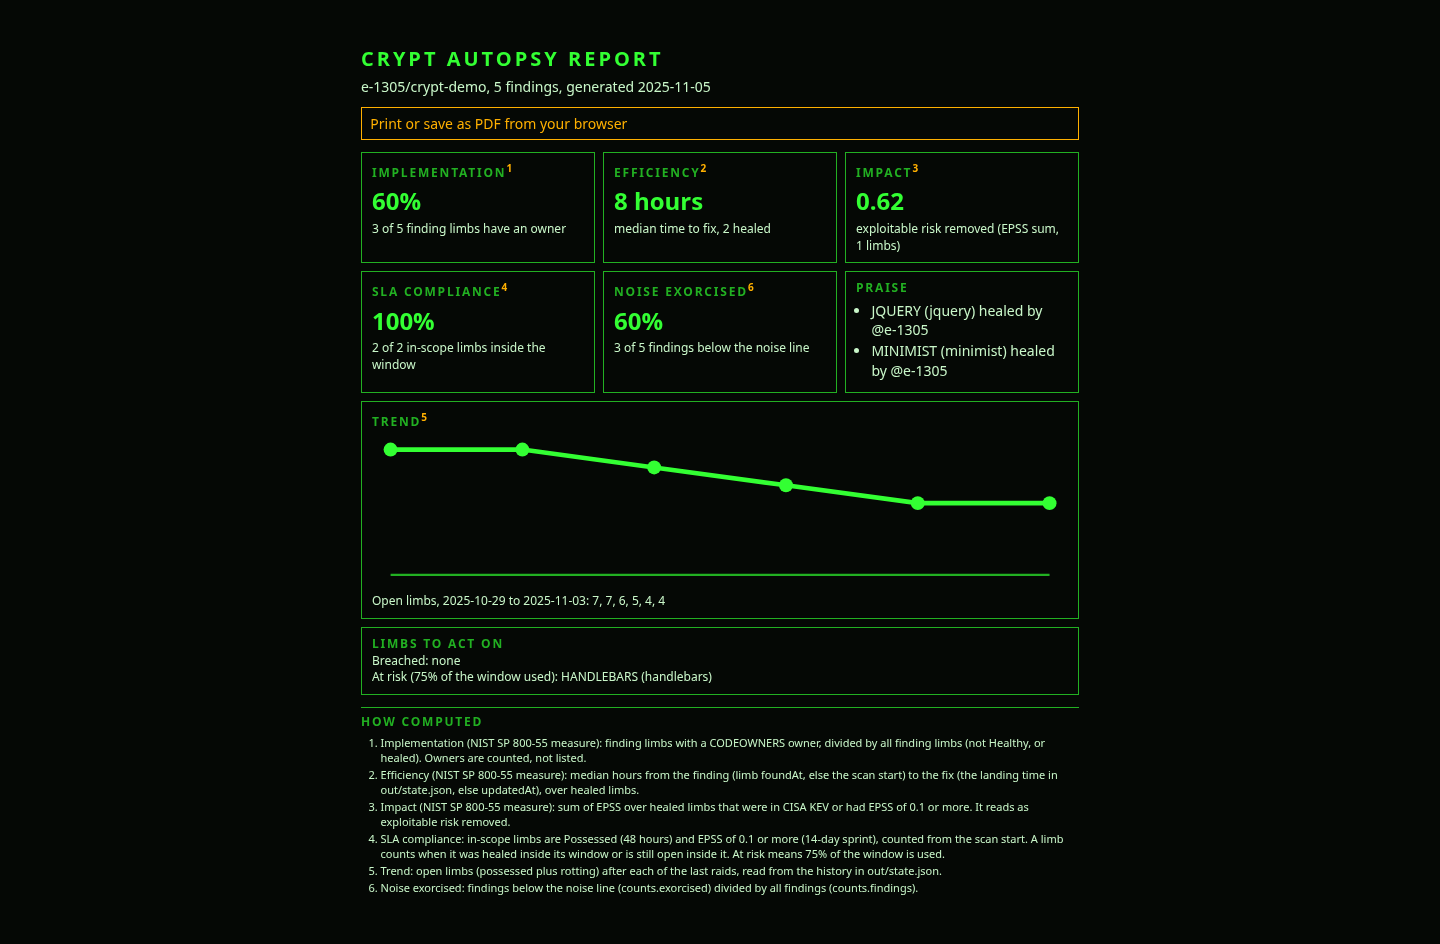
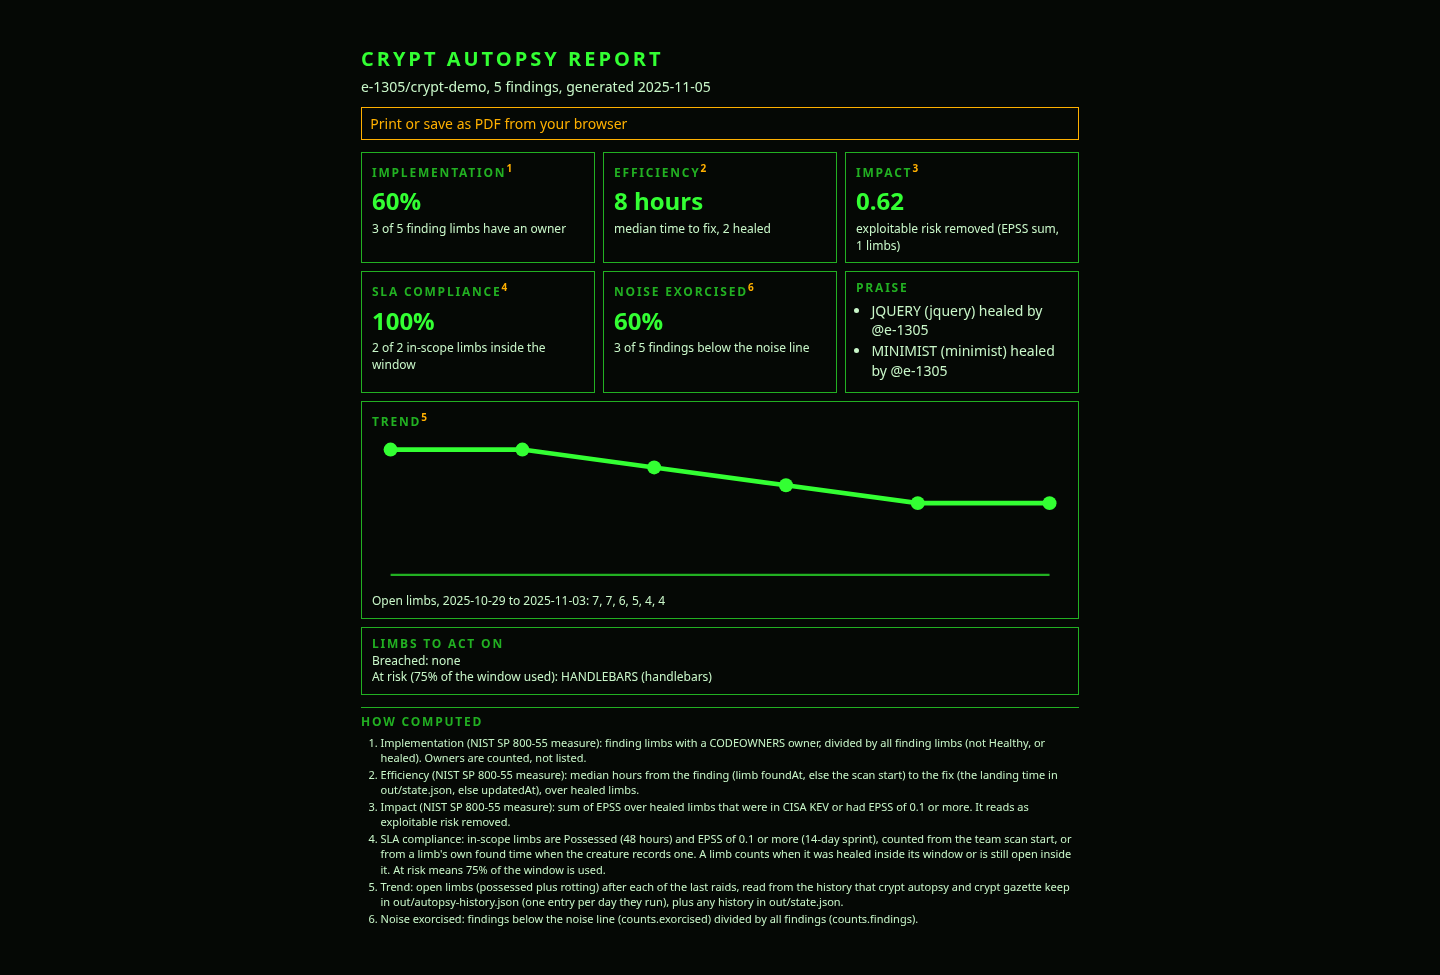
fix: keep autopsy history, refuse webhook redirects, add CLI secret test (D5 review)

Changed region(s): [[0.25, 0.5837, 0.75, 0.9523], [0.25, 0.0307, 0.75, 0.553]]

diff --git a/tests/gazette.test.ts b/tests/gazette.test.ts
@@ -7,6 +7,8 @@ import { parseCli } from "../src/cli/parse.js";
 import { buildDigest, DAY_MS } from "../src/gazette/digest.js";
 import { buildSlackPayload, slackCode } from "../src/gazette/slack.js";
 import { buildTeamsPayload } from "../src/gazette/teams.js";
+import { spawnSync } from "node:child_process";
+import { appendSnapshot, joinHistory, snapshotOf } from "../src/report/history.js";
 import { sendGazette, type FetchLike } from "../src/gazette/send.js";
 import { SAMPLE_INPUT } from "../src/report/sample.js";
 import { DEFAULT_WAR_ROOM, gazetteCommand } from "../scripts/cli/gazette.js";
@@ -171,5 +173,51 @@ describe("sendGazette", () => {
     const err = await sendGazette({ payload: {}, url: SECRET, fetchImpl: f, timeoutMs: 5 }).catch((e: Error) => e);
     expect((err as Error).message).toMatch(/in time/);
     expect((err as Error).message).not.toContain("SENTINEL");
+  });
+});
+
+it("sendGazette refuses redirects", async () => {
+  let seen: unknown;
+  await sendGazette({ payload: {}, url: SECRET, fetchImpl: async (_u, i) => ((seen = i.redirect), { ok: true, status: 200 }) });
+  expect(seen).toBe("error");
+});
+
+describe("raid history kept by the report commands", () => {
+  const creature = { counts: { spawned: 2 }, limbs: [{ id: "A", name: "a", state: "Possessed" }, { id: "B", name: "b", state: "Healthy", healed: true }, { id: "C", name: "c", state: "Rotting" }] };
+  it("snapshots the creature", () => {
+    expect(snapshotOf(creature, Date.UTC(2025, 0, 2))).toMatchObject({ possessed: 1, rotting: 1, healthy: 1, healed: 1, spawned: 2, possessedIds: ["A"] });
+    expect(snapshotOf(5, 1)).toBeNull();
+  });
+  it("keeps one entry per day and drops junk", () => {
+    const a = snapshotOf(creature, Date.UTC(2025, 0, 2, 1))!;
+    const b = snapshotOf(creature, Date.UTC(2025, 0, 2, 20))!;
+    const c = snapshotOf(creature, Date.UTC(2025, 0, 3))!;
+    expect(appendSnapshot(appendSnapshot(["junk", { at: "x" }], a), b)).toEqual([b]);
+    expect(appendSnapshot([b], c)).toEqual([b, c]);
+    expect(joinHistory([1], [2])).toEqual([1, 2]);
+  });
+  it("gazette builds the history across runs and names newly possessed limbs", async () => {
+    const d = workdir(creature);
+    await run([], d);
+    const next = { limbs: [...creature.limbs, { id: "D", name: "d", state: "Possessed" }] };
+    writeFileSync(join(d, "out", "creature.json"), JSON.stringify(next));
+    let stdout = "";
+    const env = {};
+    await gazetteCommand(parseCli(["gazette"], env), { cwd: d, env, now: () => SAMPLE_INPUT.now + 2 * DAY_MS, out: (s) => void (stdout += s) });
+    expect(stdout).toContain("d");
+    const h = JSON.parse(readFileSync(join(d, "out", "autopsy-history.json"), "utf8")) as unknown[];
+    expect(h).toHaveLength(2);
+  });
+});
+
+describe("crypt gazette through main.ts", () => {
+  it("a failed send leaks the URL in neither stdout nor stderr", () => {
+    const d = workdir();
+    const url = "https://127.0.0.1:9/SENTINEL-SECRET-123";
+    const r = spawnSync(process.execPath, [join(process.cwd(), "bin", "crypt.mjs"), "gazette", "--webhook-env", "SLACK_WEBHOOK_URL", "--send"], { cwd: d, env: { ...process.env, SLACK_WEBHOOK_URL: url }, encoding: "utf8", timeout: 60_000 });
+    expect(r.status).not.toBe(0);
+    expect(r.stderr).toMatch(/gazette not sent/);
+    expect(r.stdout + r.stderr).not.toContain("SENTINEL");
+    expect(readFileSync(join(d, "crypt-audit.log"), "utf8")).not.toContain("SENTINEL");
   });
 });

diff --git a/src/report/history.ts b/src/report/history.ts
@@ -1,0 +1,38 @@
+// Raid history kept by the report commands. serializeState drops unknown keys, so state.json cannot hold it.
+// crypt autopsy and crypt gazette append one snapshot per UTC day to out/autopsy-history.json.
+const DAY_MS = 86_400_000;
+export const HISTORY_FILE = "autopsy-history.json";
+export const MAX_KEPT = 200;
+
+const isRec = (v: unknown): v is Record<string, unknown> => typeof v === "object" && v !== null && !Array.isArray(v);
+const cnt = (v: unknown): number => (typeof v === "number" && Number.isFinite(v) && v >= 0 ? Math.floor(v) : 0);
+
+/** One history entry for the creature as it is now. Returns null when there is no usable limb list. */
+export function snapshotOf(creature: unknown, now: number): Record<string, unknown> | null {
+  if (!isRec(creature) || !Array.isArray(creature.limbs) || !Number.isFinite(now)) return null;
+  const limbs = creature.limbs.filter(isRec);
+  const possessedIds = limbs.filter((l) => l.state === "Possessed" && typeof l.id === "string").map((l) => (l.id as string).slice(0, 32));
+  const c = isRec(creature.counts) ? creature.counts : {};
+  return {
+    at: new Date(now).toISOString(),
+    possessed: possessedIds.length,
+    rotting: limbs.filter((l) => l.state === "Rotting").length,
+    healthy: limbs.filter((l) => l.state === "Healthy").length,
+    spawned: cnt(c.spawned),
+    healed: limbs.filter((l) => l.healed === true).length,
+    possessedIds,
+  };
+}
+
+/** Appends the snapshot. An entry from the same UTC day is replaced. Junk entries are dropped. */
+export function appendSnapshot(existing: unknown, snap: Record<string, unknown>): unknown[] {
+  const day = (e: unknown): number => (isRec(e) ? Math.floor(Date.parse(String(e.at)) / DAY_MS) : NaN);
+  const today = day(snap);
+  const kept = (Array.isArray(existing) ? existing : []).filter((e) => Number.isFinite(day(e)) && day(e) !== today);
+  return [...kept, snap].slice(-MAX_KEPT);
+}
+
+/** state.history first, then the file history, so an entry the file holds for the same time wins by order. */
+export function joinHistory(fromState: unknown, fromFile: unknown): unknown[] {
+  return [...(Array.isArray(fromState) ? fromState : []), ...(Array.isArray(fromFile) ? fromFile : [])];
+}

diff --git a/src/report/template.ts b/src/report/template.ts
@@ -9,8 +9,8 @@ export const FOOTNOTES = {
     "Efficiency (NIST SP 800-55 measure): median hours from the finding (limb foundAt, else the scan start) to the fix (the landing time in out/state.json, else updatedAt), over healed limbs.",
   impact:
     "Impact (NIST SP 800-55 measure): sum of EPSS over healed limbs that were in CISA KEV or had EPSS of 0.1 or more. It reads as exploitable risk removed.",
-  sla: "SLA compliance: in-scope limbs are Possessed (48 hours) and EPSS of 0.1 or more (14-day sprint), counted from the scan start. A limb counts when it was healed inside its window or is still open inside it. At risk means 75% of the window is used.",
-  trend: "Trend: open limbs (possessed plus rotting) after each of the last raids, read from the history in out/state.json.",
+  sla: "SLA compliance: in-scope limbs are Possessed (48 hours) and EPSS of 0.1 or more (14-day sprint), counted from the team scan start, or from a limb's own found time when the creature records one. A limb counts when it was healed inside its window or is still open inside it. At risk means 75% of the window is used.",
+  trend: "Trend: open limbs (possessed plus rotting) after each of the last raids, read from the history that crypt autopsy and crypt gazette keep in out/autopsy-history.json (one entry per day they run), plus any history in out/state.json.",
   noise: "Noise exorcised: findings below the noise line (counts.exorcised) divided by all findings (counts.findings).",
 } as const;
 

diff --git a/scripts/cli/history.ts b/scripts/cli/history.ts
@@ -1,0 +1,34 @@
+// Reads and appends out/autopsy-history.json for crypt autopsy and crypt gazette.
+import { dirname, join } from "node:path";
+import type { Io } from "../../src/common/io.js";
+import { appendSnapshot, HISTORY_FILE, joinHistory, snapshotOf } from "../../src/report/history.js";
+
+export function historyPath(creaturePath: string): string {
+  return join(dirname(creaturePath), HISTORY_FILE);
+}
+
+function readJson(io: Io, path: string): unknown {
+  try {
+    return io.pathState(path) === "present" ? JSON.parse(io.readText(path)) : undefined;
+  } catch {
+    return undefined;
+  }
+}
+
+/** The history to report from: state.history plus the history file. */
+export function loadHistory(io: Io, creaturePath: string, state: unknown): unknown[] {
+  const s = typeof state === "object" && state !== null ? (state as Record<string, unknown>).history : undefined;
+  return joinHistory(s, readJson(io, historyPath(creaturePath)));
+}
+
+/** Records today's snapshot. A failed write is ignored: the report must still come out. */
+export function recordSnapshot(io: Io, creaturePath: string, creature: unknown, now: number): void {
+  try {
+    const snap = snapshotOf(creature, now);
+    if (snap === null) return;
+    const p = historyPath(creaturePath);
+    io.writeText(p, JSON.stringify(appendSnapshot(readJson(io, p), snap), null, 2) + "\n");
+  } catch {
+    // fail-safe: history is a convenience
+  }
+}

diff --git a/src/gazette/send.ts b/src/gazette/send.ts
@@ -1,5 +1,5 @@
 // POST the gazette payload to a webhook. Errors never carry the URL or the response body.
-export type FetchLike = (url: string, init: { method: string; headers: Record<string, string>; body: string; signal: AbortSignal }) => Promise<{ ok: boolean; status: number }>;
+export type FetchLike = (url: string, init: { method: string; headers: Record<string, string>; body: string; signal: AbortSignal; redirect: "error" }) => Promise<{ ok: boolean; status: number }>;
 
 export const SEND_TIMEOUT_MS = 10_000;
 
@@ -26,7 +26,7 @@ export async function sendGazette(input: SendInput): Promise<void> {
   const ctl = new AbortController();
   const timer = setTimeout(() => ctl.abort(), input.timeoutMs ?? SEND_TIMEOUT_MS);
   try {
-    const res = await f(input.url, { method: "POST", headers: { "content-type": "application/json" }, body: JSON.stringify(input.payload), signal: ctl.signal });
+    const res = await f(input.url, { method: "POST", headers: { "content-type": "application/json" }, body: JSON.stringify(input.payload), signal: ctl.signal, redirect: "error" });
     if (!res.ok) throw new Error(`the webhook answered HTTP ${Number.isInteger(res.status) ? res.status : "?"}. Nothing was retried.`);
   } catch (e) {
     if (e instanceof Error && e.message.startsWith("the webhook answered")) throw e;

diff --git a/scripts/cli/gazette.ts b/scripts/cli/gazette.ts
@@ -9,6 +9,7 @@ import { buildSlackPayload } from "../../src/gazette/slack.js";
 import { buildTeamsPayload } from "../../src/gazette/teams.js";
 import { sendGazette, type FetchLike } from "../../src/gazette/send.js";
 import { SAMPLE_INPUT } from "../../src/report/sample.js";
+import { loadHistory, recordSnapshot } from "./history.js";
 import { SEAL_NOTICE } from "./session.js";
 
 function readJson(io: Io, path: string): unknown {
@@ -48,7 +49,9 @@ export async function gazetteCommand(p: Parsed, deps: GazetteDeps = {}): Promise
   } else {
     const creature = readJson(io, paths.creaturePath);
     if (creature === undefined) throw new CliError("no readable out/creature.json. Run crypt raid <target> first.", EXIT.FAILURE);
-    digest = buildDigest({ creature, state: readJson(io, paths.statePath) ?? {}, now: now(), warRoomUrl });
+    const state = readJson(io, paths.statePath) ?? {};
+    digest = buildDigest({ creature, state, history: loadHistory(io, paths.creaturePath, state), now: now(), warRoomUrl });
+    recordSnapshot(io, paths.creaturePath, creature, now());
   }
   const payload = format === "teams" ? buildTeamsPayload(digest) : buildSlackPayload(digest);
 

diff --git a/scripts/cli/autopsy.ts b/scripts/cli/autopsy.ts
@@ -7,6 +7,7 @@ import type { Parsed } from "../../src/cli/parse.js";
 import { buildAutopsy, DEFAULT_LAST, type AutopsyInput } from "../../src/report/model.js";
 import { renderAutopsyHtml } from "../../src/report/html.js";
 import { SAMPLE_INPUT } from "../../src/report/sample.js";
+import { loadHistory, recordSnapshot } from "./history.js";
 import { PDF_HINT } from "../../src/report/template.js";
 
 function readJson(io: Io, path: string): unknown {
@@ -29,7 +30,9 @@ export function autopsyCommand(p: Parsed, cwd: string = process.cwd(), io: Io = 
     if (creature === undefined) {
       throw new CliError("no readable out/creature.json. Run crypt raid <target> first.", EXIT.FAILURE);
     }
-    input = { creature, state: readJson(io, paths.statePath) ?? {}, now: now(), last };
+    const state = readJson(io, paths.statePath) ?? {};
+    input = { creature, state, now: now(), last, history: loadHistory(io, paths.creaturePath, state) };
+    recordSnapshot(io, paths.creaturePath, creature, now());
   }
   io.writeText(out, renderAutopsyHtml(buildAutopsy(input)));
   console.log(`Autopsy report written to ${out}`);

diff --git a/src/report/model.ts b/src/report/model.ts
@@ -9,6 +9,7 @@ export const SPRINT_WINDOW_MS = 14 * 24 * HOUR_MS;
 export const AT_RISK_SHARE = 0.75;
 export const SPRINT_EPSS = 0.1;
 // Key of the optional landing time in a state entry. Assembled so the failsafe scan of src/ finds no landing-call word.
+// Keep it split: joining the string back together makes scripts/ci/failsafe-guard.sh fail.
 export const LANDED_AT = "mer" + "gedAt";
 export const DEFAULT_LAST = 8;
 export const MAX_LAST = 52;

diff --git a/docs/DEVPOST.md b/docs/DEVPOST.md
@@ -19,7 +19,7 @@ The page is a rehearsal and sends nothing. Only the CLI (`crypt raid <url> --liv
 Three pillars, paraphrased. Mary Shelley, *Frankenstein* (1818): every rotting limb gets a named surgeon from CODEOWNERS. Nadya Bartol, TED@BCG (2021): rot belongs to the package, never to a person. Saltzer and Schroeder, "The Protection of Information in Computer Systems" (1975): safe defaults and least privilege, so the Necromancer writes, the Inquisitor verifies, a human merges, at most 5 PRs per raid, one dependency each.
 
 ## How we built it with Kiro
-Specs first. Counts: <!-- stats:start -->25 specs in `.kiro/specs/`, 6 steering files, 7 hooks, 2 custom agents and 787 tests (passed plus skipped, `npx vitest run`; counted by `npm run kiro:stats`)<!-- stats:end -->. The agents are the Necromancer and the Inquisitor, in `.kiro/agents/`; hooks are in `.kiro/hooks/` and steering in `.kiro/steering/`. A bridge ([bridge-v2](../.kiro/specs/bridge-v2/requirements.md)) watches the game transcript for `[[CRYPT ...]]` markers and drives the agents. See [KIRO.md](KIRO.md). Limits: no hook has been seen to fire inside a Kiro session (the hooks now log to `docs/evidence/hook-runs.jsonl`; in Kiro Web, saving matching files wrote no line, so every line there is a hand run marked `manual`), and we did not measure time saved.
+Specs first. Counts: <!-- stats:start -->25 specs in `.kiro/specs/`, 6 steering files, 7 hooks, 2 custom agents and 792 tests (passed plus skipped, `npx vitest run`; counted by `npm run kiro:stats`)<!-- stats:end -->. The agents are the Necromancer and the Inquisitor, in `.kiro/agents/`; hooks are in `.kiro/hooks/` and steering in `.kiro/steering/`. A bridge ([bridge-v2](../.kiro/specs/bridge-v2/requirements.md)) watches the game transcript for `[[CRYPT ...]]` markers and drives the agents. See [KIRO.md](KIRO.md). Limits: no hook has been seen to fire inside a Kiro session (the hooks now log to `docs/evidence/hook-runs.jsonl`; in Kiro Web, saving matching files wrote no line, so every line there is a hand run marked `manual`), and we did not measure time saved.
 
 ## Challenges
 - A game must not be able to trick the watcher. Only markers the story prints count; typed text never does.
@@ -28,7 +28,7 @@ Specs first. Counts: <!-- stats:start -->25 specs in `.kiro/specs/`, 6 steering 
 
 ## Accomplishments
 - Census ([docs/census/RESULTS.md](census/RESULTS.md), scan 2026-11-17, rerun with `npm run census`): across 20 popular open-source projects, the filter cut 248 findings to 3 monsters. 95.2% were exorcised as noise, 0 were possessed, 84.7% of 11,244 limbs have no CODEOWNERS owner. Limits: lockfile only, no reachability, 20 popular projects, not a random sample.
-- Tests: <!-- stats:start -->25 specs in `.kiro/specs/`, 6 steering files, 7 hooks, 2 custom agents and 787 tests (passed plus skipped, `npx vitest run`; counted by `npm run kiro:stats`)<!-- stats:end -->.
+- Tests: <!-- stats:start -->25 specs in `.kiro/specs/`, 6 steering files, 7 hooks, 2 custom agents and 792 tests (passed plus skipped, `npx vitest run`; counted by `npm run kiro:stats`)<!-- stats:end -->.
 
 ## What we learned
 Putting safety rules in steering files and tests made them cheap to keep. A judge persona and a product manager persona, run in a loop over the live page ([PLAYTEST_LOG.md](PLAYTEST_LOG.md)), found problems that unit tests did not (the prompt sat 1500 px down the page).

diff --git a/docs/BLOG.md b/docs/BLOG.md
@@ -22,7 +22,7 @@ I wrote the spec before the code for the bridge, and usually elsewhere. The `.ki
 
 Steering files in `.kiro/steering/` carry the rules that must never drift. `failsafe.md` holds the eight Saltzer and Schroeder rules, and `blameless.md` holds the Bartol rules. `sla-policy.md` fixes the ranking order, and `tech.md` and `product.md` set the scope. I cannot claim Kiro Web loaded them on its own. The repository sits in a subfolder of the session workspace, so its `.kiro/` is probably not read as configuration. What I can show: every Kiro issue told the agent to read `.kiro/steering/`, and the rules appear in code and tests: there is no merge call and a CI guard checks it, owners come only from CODEOWNERS, and ranking is deterministic code. The failsafe file also says each rule needs a property-based test, so each one has a vitest and fast-check test that runs in CI.
 
-Counts: <!-- stats:start -->25 specs in `.kiro/specs/`, 6 steering files, 7 hooks, 2 custom agents and 787 tests (passed plus skipped, `npx vitest run`; counted by `npm run kiro:stats`)<!-- stats:end -->. The hooks in `.kiro/hooks/` are: attribution on package save, a blameless copy check, a failsafe guard, related tests on save, and a trace check on the tasks file. The agents are `necromancer` and `inquisitor`. The writer of a fix and the verifier are separate on purpose, which is the separation of privilege rule.
+Counts: <!-- stats:start -->25 specs in `.kiro/specs/`, 6 steering files, 7 hooks, 2 custom agents and 792 tests (passed plus skipped, `npx vitest run`; counted by `npm run kiro:stats`)<!-- stats:end -->. The hooks in `.kiro/hooks/` are: attribution on package save, a blameless copy check, a failsafe guard, related tests on save, and a trace check on the tasks file. The agents are `necromancer` and `inquisitor`. The writer of a fix and the verifier are separate on purpose, which is the separation of privilege rule.
 
 Limits, stated plainly, because `docs/KIRO.md` states them too. The hooks are configured (7 files), checked in CI and run by hand (5 lines marked `manual`), but I did not see any hook fire in Kiro Web. The probable reason is the workspace layout: the session root is `/projects/sandbox` and the repository is in a subfolder, so its `.kiro/` is probably not loaded. A desktop IDE or CLI session with the repository as root is where they apply, and real runs there would show in the generated stats. The specs were real: I wrote requirements, design and tasks first in Web sessions and the commits show it. The safety claims rest on the tests in CI. I also have no measurement of time saved, so I won't claim one.
 

diff --git a/.kiro/specs/d5-autopsy-gazette/requirements.md b/.kiro/specs/d5-autopsy-gazette/requirements.md
@@ -6,7 +6,7 @@ Scope: `src/report/` (autopsy model, HTML), `src/gazette/` (gazette model, Slack
 
 ## Data sources and assumptions
 1. `out/creature.json`: `counts`, `team.scanStart` (ms), `limbs[]` with `id`, `name`, `owner` (`unowned` when CODEOWNERS names none), `state`, `spawned`, `kev`, `epss`, `healed`, `healedBy`. Optional per limb: `foundAt`, `wasKev`.
-2. `out/state.json`: `limbs{ID: {state, pr, updatedAt, healedBy?}}`. Optional per entry: `mergedAt`, `kev`. Optional top-level `history`: `[{at, possessed, rotting, healthy, spawned, healed}]`, one entry per raid. `serializeState` drops unknown keys, so `history` is read from the raw JSON and these commands never write it.
+2. `out/state.json`: `limbs{ID: {state, pr, updatedAt, healedBy?}}`. Optional per entry: `mergedAt`, `kev`. Optional top-level `history`: `[{at, possessed, rotting, healthy, spawned, healed}]`, one entry per raid. `serializeState` drops unknown keys, so these commands keep their own history in `out/autopsy-history.json` (one snapshot per UTC day, with `possessedIds`), written when `autopsy` or `gazette` runs on real data, and read together with any `state.history`. The trend therefore starts at the first run of either command. `foundAt` and `wasKev` have no producer yet: SLA windows start at `team.scanStart` until one lands, so limbs found in later raids can show as breached early.
 3. When `foundAt` is absent, the finding time is `team.scanStart`. When `mergedAt` is absent, the fix time is the state entry `updatedAt`.
 
 ## A1 Autopsy report (`crypt autopsy`)

diff --git a/docs/KIRO.md b/docs/KIRO.md
@@ -15,7 +15,7 @@ Generated 2026-11-18 (UTC).
 | Steering files | 6 | `.kiro/steering/*.md` |
 | Custom agents | 2 | `.kiro/agents/*.json` (Oracle has no file) |
 | Property test call sites | 282 in 35 files | `fc.assert`, `fc.property`, `fc.asyncProperty`, `test.prop` in `tests/*.test.ts` |
-| Tests | 783 passed, 4 skipped | `npx vitest run --reporter=json` (numPassedTests, numPendingTests) |
+| Tests | 788 passed, 4 skipped | `npx vitest run --reporter=json` (numPassedTests, numPendingTests) |
 | Test files | 52 | `npx vitest run --reporter=json` (testResults) |
 | PRs | 53 | unique `#N` in landing-commit subjects of `git log` (`pull request #N` or `PR #N`); `(#N)` suffixes are issues and are not counted; `gh` is not used |
 <!-- kiro-stats:end -->
